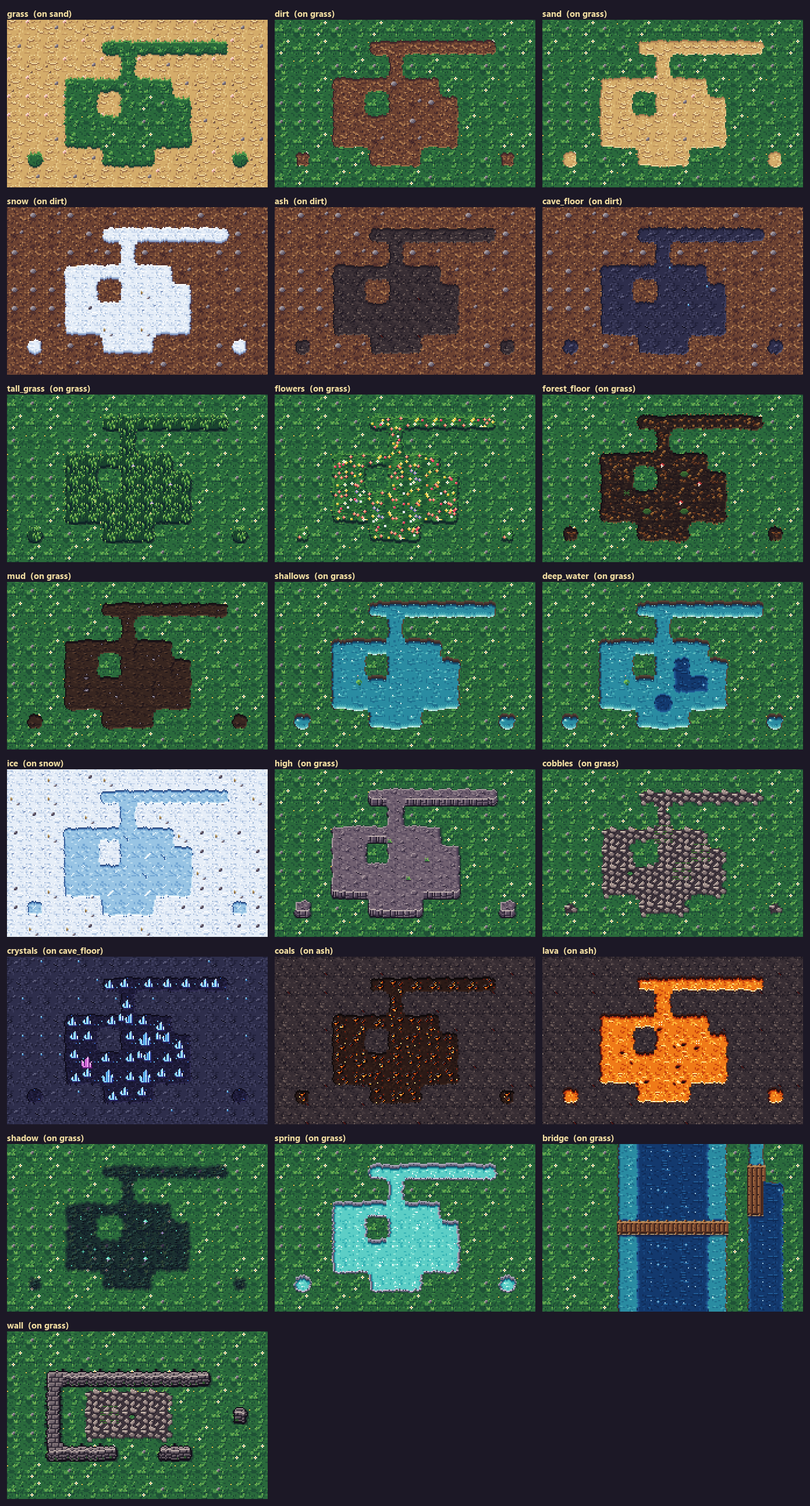
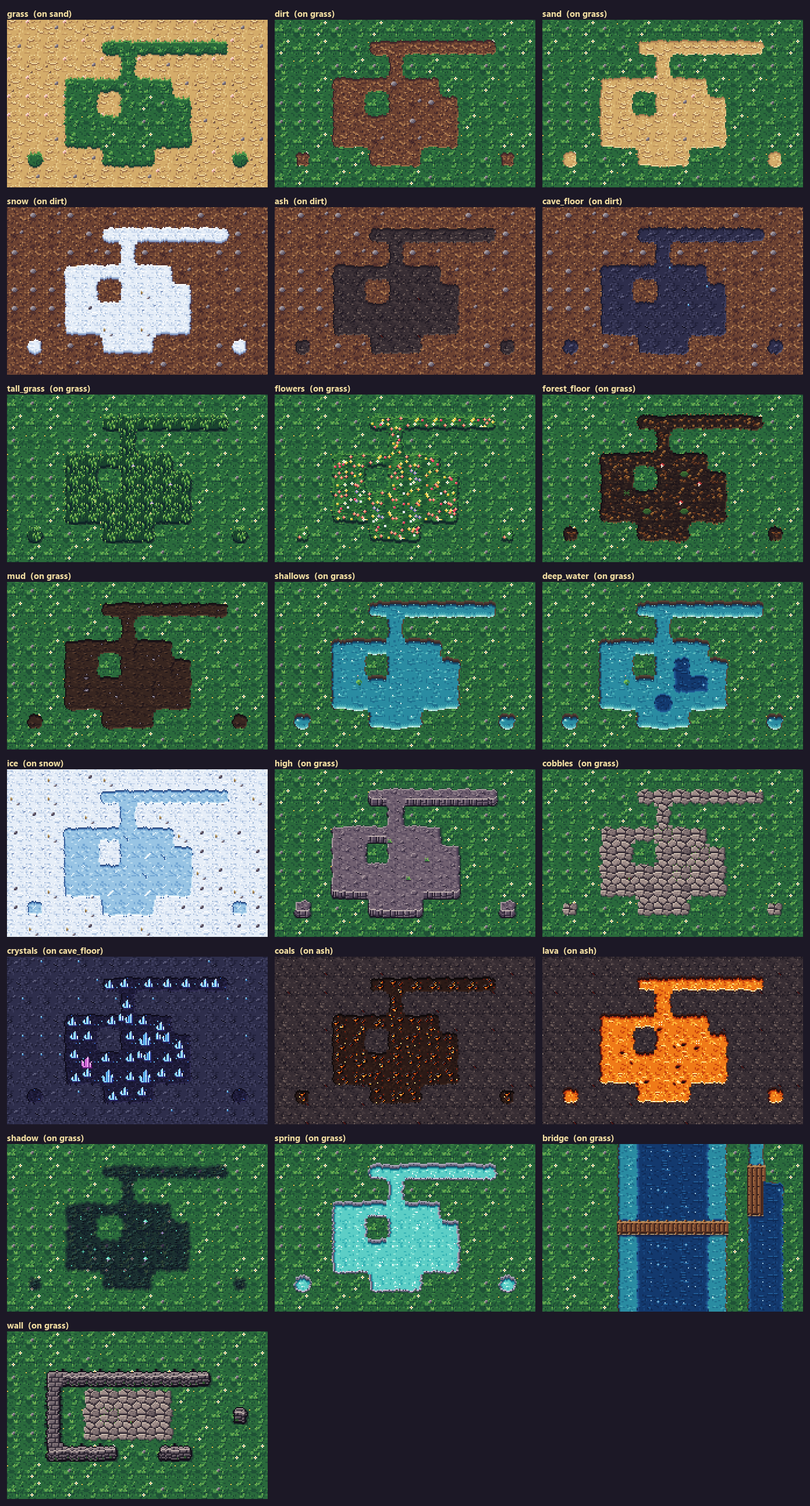
Terrain art: cobbles become calm flagstones; previews for the 90x54 arenas
Big ruins plazas showed the old small stones as busy gravel with a visible
repeat. Now large flat slabs (lit top edge, shaded lower edge, dark joints),
with the variety in per-tile details: a stained slab, a crack and moss, a
broken corner. Paving edges break along the slabs. arena.py draws
camera-sized views (38x19 tiles, centred between the two creatures) of the
new big maps for every theme, plus one whole map (arena_full.png).

Changed region(s): [[0.7414, 0.5255, 0.9576, 0.6182], [0.0927, 0.8964, 0.2162, 0.9583], [0.6796, 0.5873, 0.7105, 0.6182]]

diff --git a/game/art-src/terrain/terrain.py b/game/art-src/terrain/terrain.py
@@ -983,13 +983,13 @@ class High(Terrain):
 COBBLE = ramp("#1c1620 #2c242e #40363e #564a50 #6c5e62 #847474 #9e8c88 #b8a69c #d2c2b4")
 
 
-def cobble_layout(n: int = 8, iters: int = 4):
-    """Rounded stones that wrap round the tile's edges: points spread evenly (a few rounds of moving each to
-    the middle of its patch), then each pixel belongs to its nearest point; pixels about equally near two points
-    are the gaps. Stones come out a little wider than tall, as they look from our slanted view."""
-    rng = rng_for("cobbles", "layout")
+def cobble_layout(n: int = 6, iters: int = 5):
+    """Flagstones that wrap round the tile's edges: points spread evenly (a few rounds of moving each to the
+    middle of its patch), then each pixel belongs to its nearest point; pixels about equally near two points are
+    the joints. Slabs come out a little wider than tall, as they look from our slanted view."""
+    rng = rng_for("cobbles", "flagstones")
     pts = rng.random((n, 2)) * T
-    sy = 1.35
+    sy = 1.2
 
     def nearest(x, y):
         ds = []
@@ -1006,7 +1006,7 @@ def cobble_layout(n: int = 8, iters: int = 4):
             for x in range(T):
                 i = nearest(x + 0.5, y + 0.5)[0][1]
                 a = acc[i]
-                for k, v in ((0, x + 0.5), (2, y + 0.5)):  # circular mean so stones can wrap
+                for k, v in ((0, x + 0.5), (2, y + 0.5)):  # circular mean so slabs can wrap
                     ang = v / T * 2 * math.pi
                     a[k] += math.cos(ang)
                     a[k + 1] += math.sin(ang)
@@ -1019,25 +1019,14 @@ def cobble_layout(n: int = 8, iters: int = 4):
     for y in range(T):
         for x in range(T):
             ds = nearest(x + 0.5, y + 0.5)
-            if math.sqrt(ds[1][0]) - math.sqrt(ds[0][0]) > 1.15:
+            if math.sqrt(ds[1][0]) - math.sqrt(ds[0][0]) > 0.9:
                 owner[y, x] = ds[0][1]
-    # round the stones: a stone pixel with gaps on two touching sides (a corner) becomes gap
-    out = owner.copy()
-    for y in range(T):
-        for x in range(T):
-            o = owner[y, x]
-            if o < 0:
-                continue
-            up = owner[(y - 1) % T, x] != o
-            dn = owner[(y + 1) % T, x] != o
-            lf = owner[y, (x - 1) % T] != o
-            rt = owner[y, (x + 1) % T] != o
-            if (up or dn) and (lf or rt):
-                out[y, x] = -1
-    return out
+    return owner
 
 
 class Cobbles(Terrain):
+    """Old flagstones: big flat slabs with a lit top edge, a shaded lower edge and dark joints. A big plaza
+    should look calm, so the slabs are plain; the variety is in the details (a stained slab, a crack, moss)."""
     id = "cobbles"
     pal = COBBLE
     detail_gap = 2
@@ -1046,10 +1035,28 @@ class Cobbles(Terrain):
         self.owner = cobble_layout()
         rng = rng_for(self.id, "tones")
         self.tone = {i: ri(rng, 5, 6) for i in range(int(self.owner.max()) + 1)}
+        self.grain = rng_for(self.id, "grain").random((T, T))
 
     def stone_at(self, x, y):
         o = self.owner[y % T, x % T]
         return None if o < 0 else int(o)
+
+    def slab_colour(self, x, y, t):
+        s = self.stone_at(x, y)
+        up = self.stone_at(x, y - 1) != s
+        lf = self.stone_at(x - 1, y) != s
+        dn = self.stone_at(x, y + 1) != s
+        rt = self.stone_at(x + 1, y) != s
+        if dn:
+            return self.pal[t - 2]           # the shaded lower edge
+        if up:
+            return self.pal[t + 2] if not rt else self.pal[t + 1]   # the lit top edge
+        if lf:
+            return self.pal[t + 1]
+        if rt:
+            return self.pal[t - 1]
+        g = self.grain[y % T, x % T]     # a faint grain in the stone
+        return self.pal[t - 1] if g < 0.1 else self.pal[t + 1] if g > 0.95 else self.pal[t]
 
     def base(self, frame):
         img = blank()
@@ -1057,52 +1064,49 @@ class Cobbles(Terrain):
             for x in range(T):
                 s = self.stone_at(x, y)
                 if s is None:
-                    under = self.stone_at(x, y - 1) is not None or self.stone_at(x - 1, y) is not None
-                    img[y, x] = self.pal[1] if under else self.pal[2]   # the gap, in shade under a stone
-                    continue
-                t = self.tone[s]
-                up = self.stone_at(x, y - 1) != s
-                lf = self.stone_at(x - 1, y) != s
-                dn = self.stone_at(x, y + 1) != s
-                rt = self.stone_at(x + 1, y) != s
-                if up and not rt:
-                    c = self.pal[t + 2]          # the lit top of the stone
-                elif lf and not dn:
-                    c = self.pal[t + 1]          # its lit left side
-                elif dn:
-                    c = self.pal[t - 2]          # its shaded underside
-                elif rt:
-                    c = self.pal[t - 1]
+                    under = self.stone_at(x, y - 1) is not None
+                    img[y, x] = self.pal[1] if under else self.pal[2]   # the joint, in shade under a slab
                 else:
-                    c = self.pal[t]
-                img[y, x] = c
+                    img[y, x] = self.slab_colour(x, y, self.tone[s])
         return img
+
+    def inner_slabs(self):
+        """Slabs wholly inside the tile (changing one of these never shows a seam)."""
+        out = []
+        for pts in self.pieces():
+            xs = [p[0] for p in pts]
+            ys = [p[1] for p in pts]
+            if min(xs) > 0 and max(xs) < T - 1 and min(ys) > 0 and max(ys) < T - 1:
+                out.append(pts)
+        return sorted(out, key=len, reverse=True)
 
     def details(self, img, rng, ok, frame, variant):
         sp = Spots(ok)
-        if variant == 1:  # a cracked stone
-            place(img, sp, rng, ["c..", ".cc", "..c"], {"c": self.pal[2]})
-        elif variant == 2:  # moss in the gaps
+        inner = self.inner_slabs()
+        if variant == 1 and inner:  # a weathered, darker slab
+            pts = inner[0]
+            for x, y in pts:
+                if ok[y, x]:
+                    img[y, x] = self.slab_colour(x, y, self.tone[self.stone_at(x, y)] - 1)
+        elif variant == 2:  # a crack across a slab, and moss in some joints
+            place(img, sp, rng, ["c...", ".cc.", "...c"], {"c": self.pal[2]})
             for y in range(T):
                 for x in range(T):
-                    if ok[y, x] and self.stone_at(x, y) is None and (x * 7 + y * 3) % 7 < 2:
-                        img[y, x] = MOSS[2] if (x + y) % 3 else MOSS[3]
-        elif variant == 3:  # one stone gone, grass growing in the hole
-            counts = {}
-            for y in range(2, T - 2):
-                for x in range(2, T - 2):
-                    s = self.stone_at(x, y)
-                    if s is not None:
-                        counts[s] = counts.get(s, 0) + 1
-            gone = max(counts, key=counts.get)
-            for y in range(T):
-                for x in range(T):
-                    if self.stone_at(x, y) == gone and 1 <= x < T - 1 and 1 <= y < T - 1:
-                        top = self.stone_at(x, y - 1) != gone
-                        img[y, x] = self.pal[0] if top else (GRASS[5] if (x + y) % 3 == 0 else GRASS[3])
+                    if ok[y, x] and self.stone_at(x, y) is None and (x * 7 + y * 3) % 6 == 0:
+                        img[y, x] = MOSS[2] if (x + y) % 2 else MOSS[3]
+        elif variant == 3 and inner:  # a slab's corner broken off, earth and a tuft of grass in the gap
+            pts = sorted(inner[-1] if len(inner) > 1 else inner[0], key=lambda p: (-p[1], -p[0]))[:6]
+            for x, y in pts:
+                if ok[y, x]:
+                    img[y, x] = DIRT[2]
+            x, y = pts[0]
+            if ok[y, x]:
+                img[y, x] = GRASS[4]
+                if y > 0:
+                    img[y - 1, x] = GRASS[6]
 
     def pieces(self):
-        """Each stone's pixels in this tile, split where a stone wraps round the tile's side."""
+        """Each slab's pixels in this tile, split where a slab wraps round the tile's side."""
         seen = np.zeros((T, T), bool)
         out = []
         for y in range(T):
@@ -1123,7 +1127,8 @@ class Cobbles(Terrain):
         return out
 
     def edge(self, bits, frame=0):
-        """Paving whose edge follows the stones: a stone mostly outside the shape is gone, the rest are whole."""
+        """Paving with a broken edge: a slab mostly outside the shape is gone; the others are cut along the
+        shape, their broken edges shaded like the slab's own edges."""
         if bits == 15:
             return self.fill(0, frame)
         sh = self.shape(bits)
@@ -1132,26 +1137,30 @@ class Cobbles(Terrain):
         keep = np.zeros((T, T), bool)
         for pts in self.pieces():
             inside = sum(1 for x, y in pts if sh.ins[y, x])
-            touches_open = any((x == 0 and sh.open["W"]) or (x == T - 1 and sh.open["E"]) or
-                               (y == 0 and sh.open["N"]) or (y == T - 1 and sh.open["S"]) for x, y in pts)
-            if inside >= 0.55 * len(pts) and not touches_open:
+            if inside >= 0.5 * len(pts):
                 for x, y in pts:
-                    keep[y, x] = True
-        for y in range(T):  # a gap stays where it lies between kept stones
+                    if sh.ins[y, x]:
+                        keep[y, x] = True
+        for y in range(T):  # a joint stays where it lies between kept slabs or well inside the shape
             for x in range(T):
-                if self.stone_at(x, y) is not None:
+                if self.stone_at(x, y) is not None or not sh.ins[y, x]:
                     continue
-                if sh.ins[y, x] and sh.d[y, x] >= 3:
-                    keep[y, x] = True
-                    continue
-                nb = [(xx, yy) for xx, yy in ((x - 1, y), (x + 1, y), (x, y - 1), (x, y + 1)) if 0 <= xx < T and 0 <= yy < T]
-                kept = [keep[yy, xx] for xx, yy in nb if self.stone_at(xx, yy) is not None]
-                if len(kept) >= 2 and all(kept):
+                nb = [keep[yy, xx] for xx, yy in ((x - 1, y), (x + 1, y), (x, y - 1), (x, y + 1))
+                      if 0 <= xx < T and 0 <= yy < T and self.stone_at(xx, yy) is not None]
+                if sh.d[y, x] >= 3 or (len(nb) >= 2 and all(nb)):
                     keep[y, x] = True
         for y in range(T):
             for x in range(T):
                 if not keep[y, x]:
                     img[y, x] = 0
+                    continue
+                if self.stone_at(x, y) is None:
+                    continue
+                t = self.tone[self.stone_at(x, y)]
+                if (y + 1 < T and not keep[y + 1, x]) or (x + 1 < T and not keep[y, x + 1]):
+                    img[y, x] = self.pal[t - 2]       # a broken edge, in shade
+                elif (y > 0 and not keep[y - 1, x]) or (x > 0 and not keep[y, x - 1]):
+                    img[y, x] = self.pal[t + 1]       # a broken edge catching the light
         for y in range(T):  # a soft shadow below and right of the paving's edge
             for x in range(T):
                 if not keep[y, x] and ((y > 0 and keep[y - 1, x]) or (x > 0 and keep[y, x - 1])):

diff --git a/game/art-src/terrain/arena.py b/game/art-src/terrain/arena.py
@@ -2,7 +2,7 @@
 each tile's layers bottom to top ([terrain, variant 0-15, fill 0-3]; variant 15 = the fill tile), then the props
 and the two creatures at their starts, sorted by their feet.
 
-    .venv/Scripts/python game/art-src/terrain/arena.py SAMPLE.json [--gif]
+    .venv/Scripts/python game/art-src/terrain/arena.py MAPS.json [--each] [--gif]
 """
 
 from __future__ import annotations
@@ -52,22 +52,42 @@ def draw_map(m: dict, art: Art) -> Image.Image:
     return canvas
 
 
+VIEW = (38, 19)  # what the battle camera shows, in tiles
+
+
+def view_of(m: dict, im: Image.Image) -> Image.Image:
+    """A camera-sized window centred between the two creatures (clamped to the map), so both show."""
+    vw, vh = VIEW[0] * T, VIEW[1] * T
+    if im.width <= vw and im.height <= vh:
+        return im
+    me, foe = m["starts"]["me"], m["starts"]["foe"]
+    cx, cy = (me["x"] + foe["x"]) / 2, (me["y"] + foe["y"]) / 2 - T
+    x0 = int(max(0, min(im.width - vw, cx - vw / 2)))
+    y0 = int(max(0, min(im.height - vh, cy - vh / 2)))
+    return im.crop((x0, y0, x0 + vw, y0 + vh))
+
+
 def main(args):
+    """Draw every map in the JSON: arenas.png (camera-sized views, all themes), arena_full.png (the first map
+    whole); --each also saves each map whole at 2x, --gif an animated camera view of each."""
     path = Path(args[0])
     data = json.loads(path.read_text(encoding="utf-8"))
     maps = data["maps"]
     arts = [Art(f) for f in range(4)]
     shots = []
-    for m in maps:
+    for i, m in enumerate(maps):
         im = draw_map(m, arts[0])
         name = f"arena_{m['theme']}_{m['seed']}"
-        zoom(im, 3).save(PREV / f"{name}.png")
-        shots.append((m, im))
-        print("arena", name)
+        if i == 0:
+            im.save(PREV / "arena_full.png")
+        if "--each" in args:
+            zoom(im, 2).save(PREV / f"{name}.png")
+        shots.append((m, view_of(m, im)))
+        print("arena", name, im.size)
         if "--gif" in args:
-            frames = [zoom(draw_map(m, a), 2).convert("P", palette=Image.ADAPTIVE, colors=255) for a in arts]
+            frames = [zoom(view_of(m, draw_map(m, a)), 2).convert("P", palette=Image.ADAPTIVE, colors=255) for a in arts]
             frames[0].save(PREV / f"{name}.gif", save_all=True, append_images=frames[1:], duration=220, loop=0)
-    # all of them on one sheet, 2 across
+    # the camera views on one sheet, 2 across
     w, h = shots[0][1].size
     k = 2
     cols = 2
